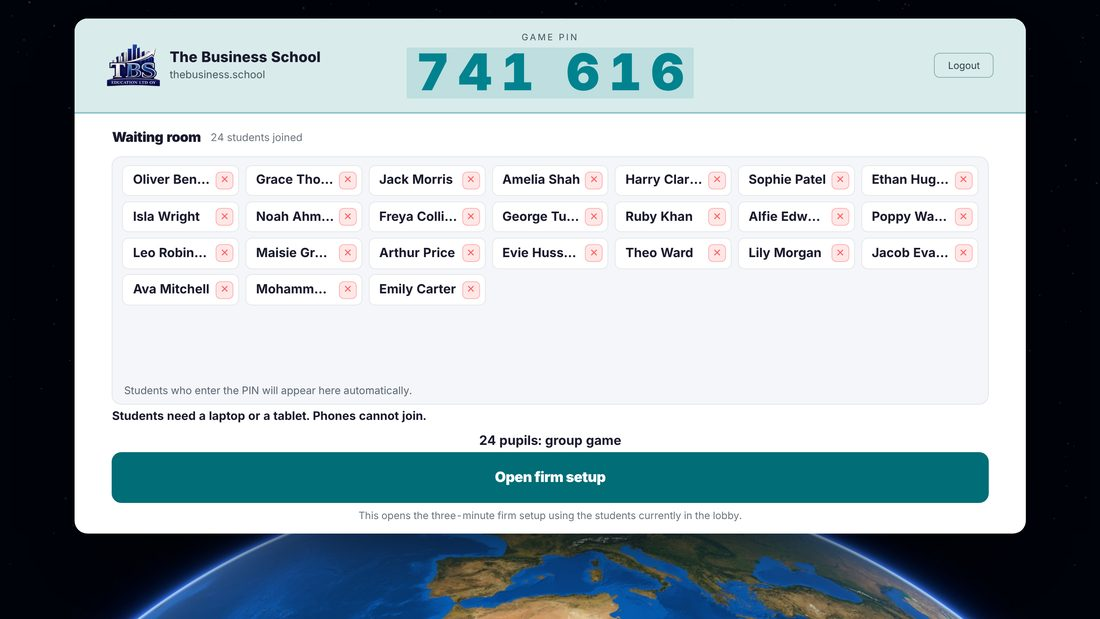
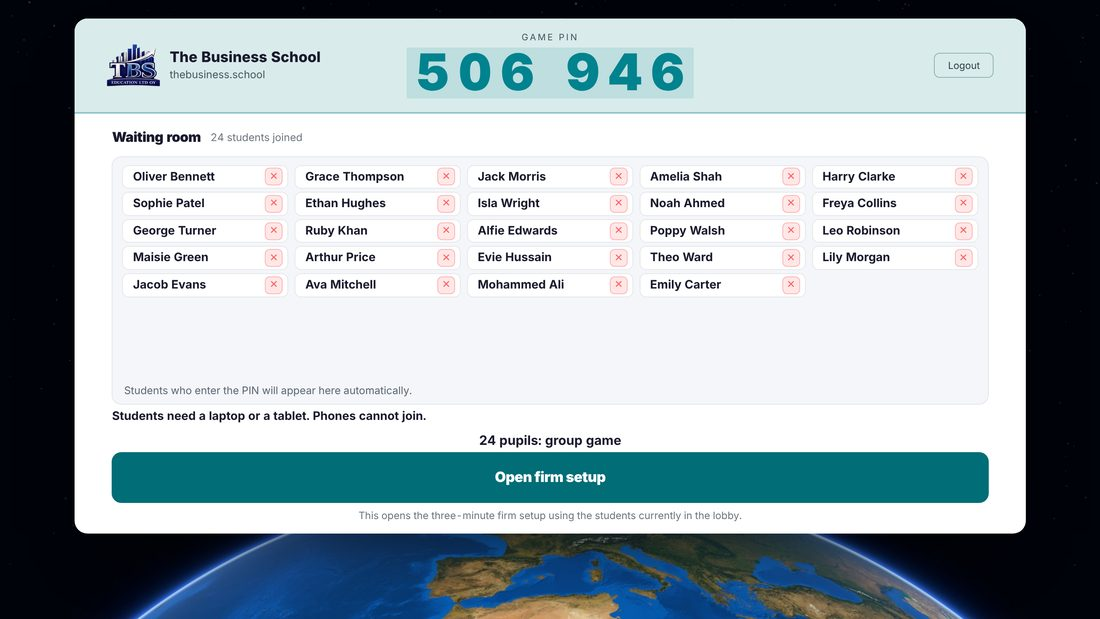
Home how-to: retake 1-join lobby picture from live game (5 columns, full names)
The teacher lobby on play.thebusiness.school (main b6be38da) now shows names
in full in 5 columns. Retaken with the same capture and crop as 12.11.
(1100x619, JPEG q82); index.html ?v= bumped to 20261112c.

Claude-Session: https://claude.ai/code/session_01Np2n7mwxyzcaQWByNZ1ReD

Changed region(s): [[0.1236, 0.2763, 0.8964, 0.4911], [0.3709, 0.0921, 0.5873, 0.1535]]

diff --git a/index.html b/index.html
@@ -684,7 +684,7 @@
       <p style="color:#40506e;font-size:16.5px">A revision lesson at the end of each topic, or a business activity any time (No topic).</p>
       <p style="color:#40506e;font-size:16.5px;margin-top:10px">The lesson runs step by step. The whole class works on the same step at the same time, and your screen shows how many firms are done.</p>
     </div>
-    <div class="hs-wrap"><div class="hs"><div class="hs-list" role="tablist" aria-label="How a lesson runs"><button class="hs-item" type="button" role="tab" aria-selected="true" data-i="0"><span class="hs-n">01</span><span><span class="hs-t">Students join with a PIN</span><span class="hs-d">You pick the class and the lesson length. The whole class joins with one PIN.</span></span></button><button class="hs-item" type="button" role="tab" aria-selected="false" data-i="1"><span class="hs-n">02</span><span><span class="hs-t">Each firm votes where to open</span><span class="hs-d">Everyone votes. Most votes wins.</span></span></button><button class="hs-item" type="button" role="tab" aria-selected="false" data-i="2"><span class="hs-n">03</span><span><span class="hs-t">Everyone deals</span><span class="hs-d">Students buy, price and negotiate face to face.</span></span></button><button class="hs-item" type="button" role="tab" aria-selected="false" data-i="3"><span class="hs-n">04</span><span><span class="hs-t">Every round, the same order</span><span class="hs-d">Firm decisions, deals with classmates, topic tasks, then a B2B deal between firms.</span></span></button><button class="hs-item" type="button" role="tab" aria-selected="false" data-i="4"><span class="hs-n">05</span><span><span class="hs-t">You see every firm live</span><span class="hs-d">Pause and Stop are one click away.</span></span></button><button class="hs-item" type="button" role="tab" aria-selected="false" data-i="5"><span class="hs-n">06</span><span><span class="hs-t">Questions, then the winner</span><span class="hs-d">Six final questions, then the podium.</span></span></button><button class="hs-item" type="button" role="tab" aria-selected="false" data-i="6"><span class="hs-n">07</span><span><span class="hs-t">Every student gets a report</span><span class="hs-d">You download the class pack.</span></span></button></div><div class="hs-view"><div class="hs-frame"><i class="hs-corner tl"></i><i class="hs-corner tr"></i><i class="hs-corner bl"></i><i class="hs-corner br"></i><div class="hs-stack"><img class="hs-img on" src="/assets/tbs-web/howto/1-join.jpg?v=20261112" alt="Students join with a PIN" width="1100" height="619"><img class="hs-img" src="/assets/tbs-web/howto/2-location.jpg?v=20261110" alt="Each firm votes where to open" loading="lazy" width="1100" height="619"><img class="hs-img" src="/assets/tbs-web/howto/3-deal.jpg?v=20261112" alt="Everyone deals" loading="lazy" width="1100" height="619"><img class="hs-img" src="/assets/tbs-web/howto/3b-margin.jpg?v=20261112" alt="Every round, the same order" loading="lazy" width="1100" height="619"><img class="hs-img" src="/assets/tbs-web/howto/4-teacher.jpg?v=20261112" alt="You see every firm live" loading="lazy" width="1100" height="619"><img class="hs-img" src="/assets/tbs-web/howto/5-winner.jpg?v=20261112" alt="Questions, then the winner" loading="lazy" width="1100" height="619"><img class="hs-img" src="/assets/tbs-web/howto/6-report.jpg?v=20261110" alt="Every student gets a report" loading="lazy" width="1100" height="619"></div><div class="hs-bar"><i></i></div></div><p class="hs-cap" aria-live="polite"></p></div></div></div>
+    <div class="hs-wrap"><div class="hs"><div class="hs-list" role="tablist" aria-label="How a lesson runs"><button class="hs-item" type="button" role="tab" aria-selected="true" data-i="0"><span class="hs-n">01</span><span><span class="hs-t">Students join with a PIN</span><span class="hs-d">You pick the class and the lesson length. The whole class joins with one PIN.</span></span></button><button class="hs-item" type="button" role="tab" aria-selected="false" data-i="1"><span class="hs-n">02</span><span><span class="hs-t">Each firm votes where to open</span><span class="hs-d">Everyone votes. Most votes wins.</span></span></button><button class="hs-item" type="button" role="tab" aria-selected="false" data-i="2"><span class="hs-n">03</span><span><span class="hs-t">Everyone deals</span><span class="hs-d">Students buy, price and negotiate face to face.</span></span></button><button class="hs-item" type="button" role="tab" aria-selected="false" data-i="3"><span class="hs-n">04</span><span><span class="hs-t">Every round, the same order</span><span class="hs-d">Firm decisions, deals with classmates, topic tasks, then a B2B deal between firms.</span></span></button><button class="hs-item" type="button" role="tab" aria-selected="false" data-i="4"><span class="hs-n">05</span><span><span class="hs-t">You see every firm live</span><span class="hs-d">Pause and Stop are one click away.</span></span></button><button class="hs-item" type="button" role="tab" aria-selected="false" data-i="5"><span class="hs-n">06</span><span><span class="hs-t">Questions, then the winner</span><span class="hs-d">Six final questions, then the podium.</span></span></button><button class="hs-item" type="button" role="tab" aria-selected="false" data-i="6"><span class="hs-n">07</span><span><span class="hs-t">Every student gets a report</span><span class="hs-d">You download the class pack.</span></span></button></div><div class="hs-view"><div class="hs-frame"><i class="hs-corner tl"></i><i class="hs-corner tr"></i><i class="hs-corner bl"></i><i class="hs-corner br"></i><div class="hs-stack"><img class="hs-img on" src="/assets/tbs-web/howto/1-join.jpg?v=20261112c" alt="Students join with a PIN" width="1100" height="619"><img class="hs-img" src="/assets/tbs-web/howto/2-location.jpg?v=20261110" alt="Each firm votes where to open" loading="lazy" width="1100" height="619"><img class="hs-img" src="/assets/tbs-web/howto/3-deal.jpg?v=20261112" alt="Everyone deals" loading="lazy" width="1100" height="619"><img class="hs-img" src="/assets/tbs-web/howto/3b-margin.jpg?v=20261112" alt="Every round, the same order" loading="lazy" width="1100" height="619"><img class="hs-img" src="/assets/tbs-web/howto/4-teacher.jpg?v=20261112" alt="You see every firm live" loading="lazy" width="1100" height="619"><img class="hs-img" src="/assets/tbs-web/howto/5-winner.jpg?v=20261112" alt="Questions, then the winner" loading="lazy" width="1100" height="619"><img class="hs-img" src="/assets/tbs-web/howto/6-report.jpg?v=20261110" alt="Every student gets a report" loading="lazy" width="1100" height="619"></div><div class="hs-bar"><i></i></div></div><p class="hs-cap" aria-live="polite"></p></div></div></div>
     <div style="display:flex;gap:14px;justify-content:center;flex-wrap:wrap;margin-top:8px">
       <a href="/trial/" style="display:inline-block;background:#0a6b73;color:#fff;font-weight:700;border-radius:12px;padding:19px 38px;text-decoration:none;font-size:20px;box-shadow:0 8px 24px rgba(10,107,115,.35)">Request a trial</a>
       <a href="https://play.thebusiness.school/demo/group-classroom/" style="display:inline-block;background:#fff;color:#0e2038;border:1px solid #c9d3df;font-weight:700;border-radius:12px;padding:19px 30px;text-decoration:none;font-size:18px">Try the Teacher Demo</a>
